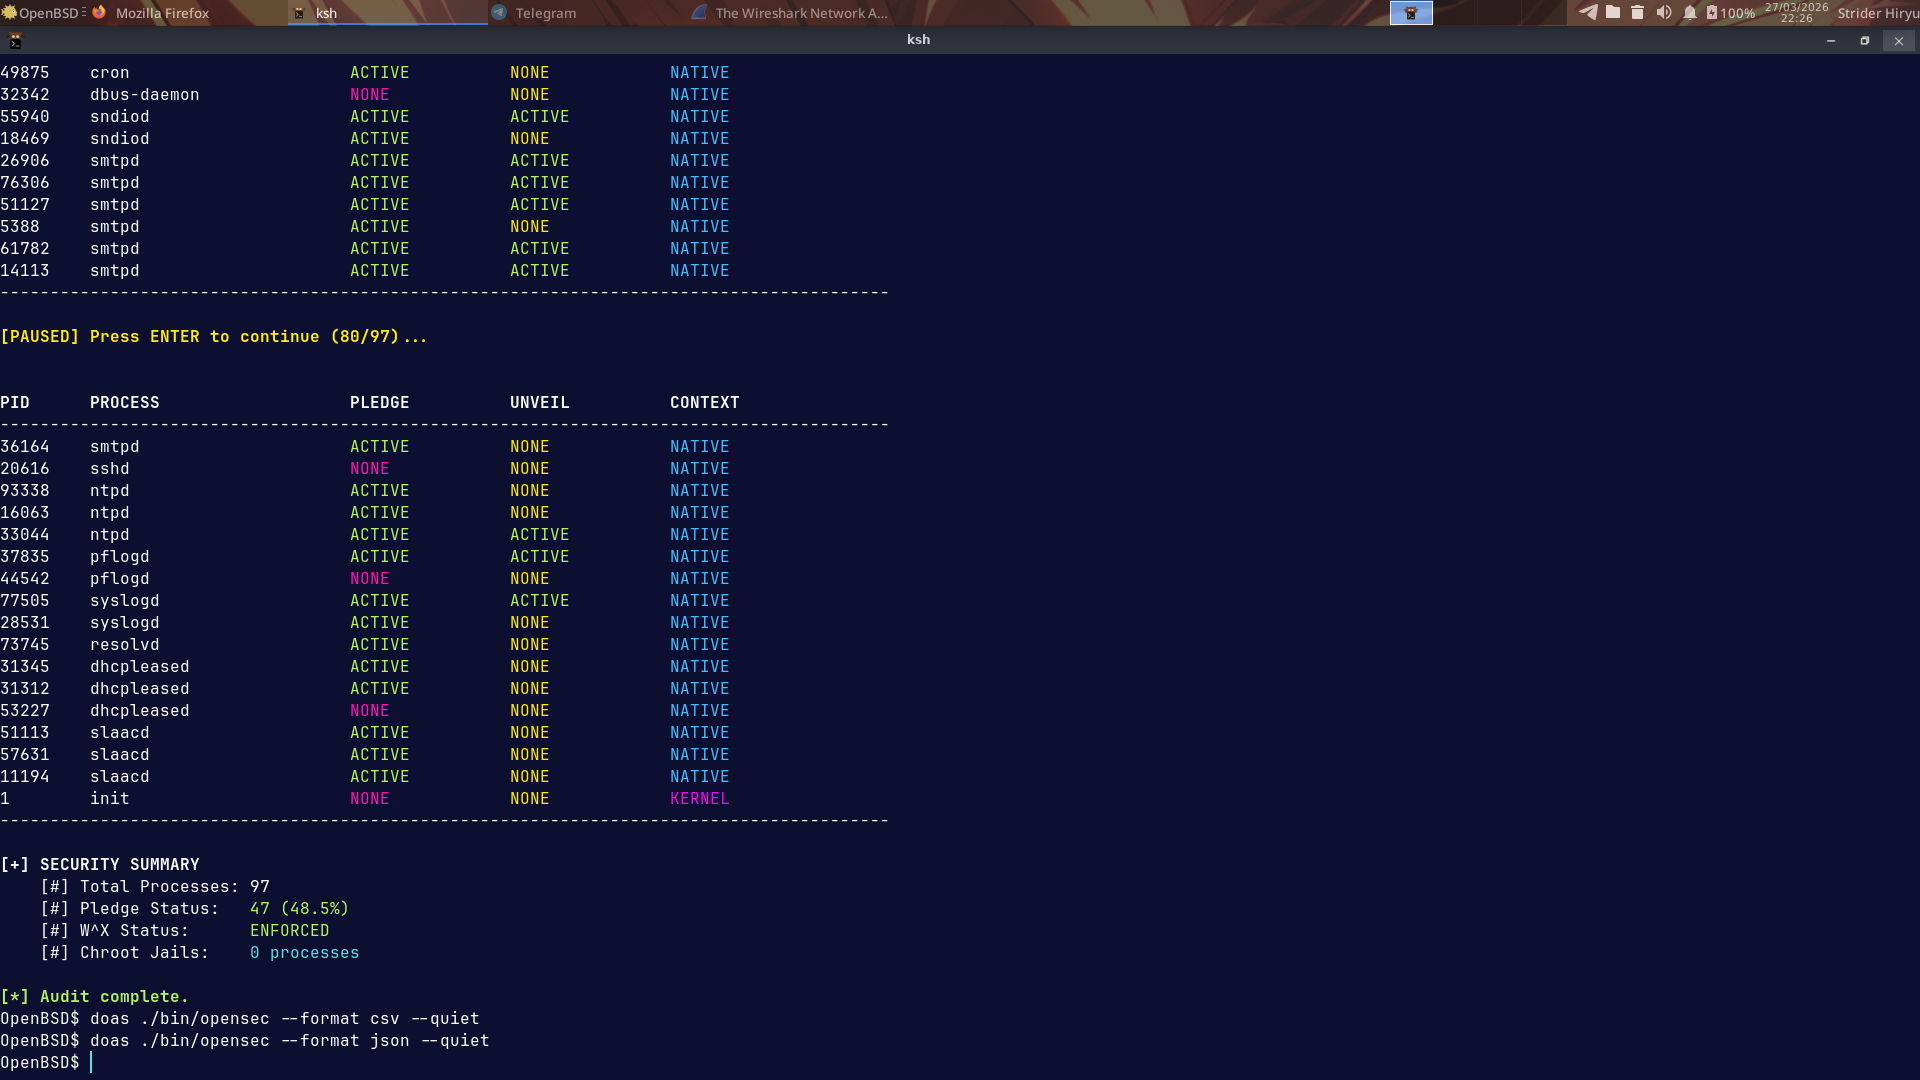
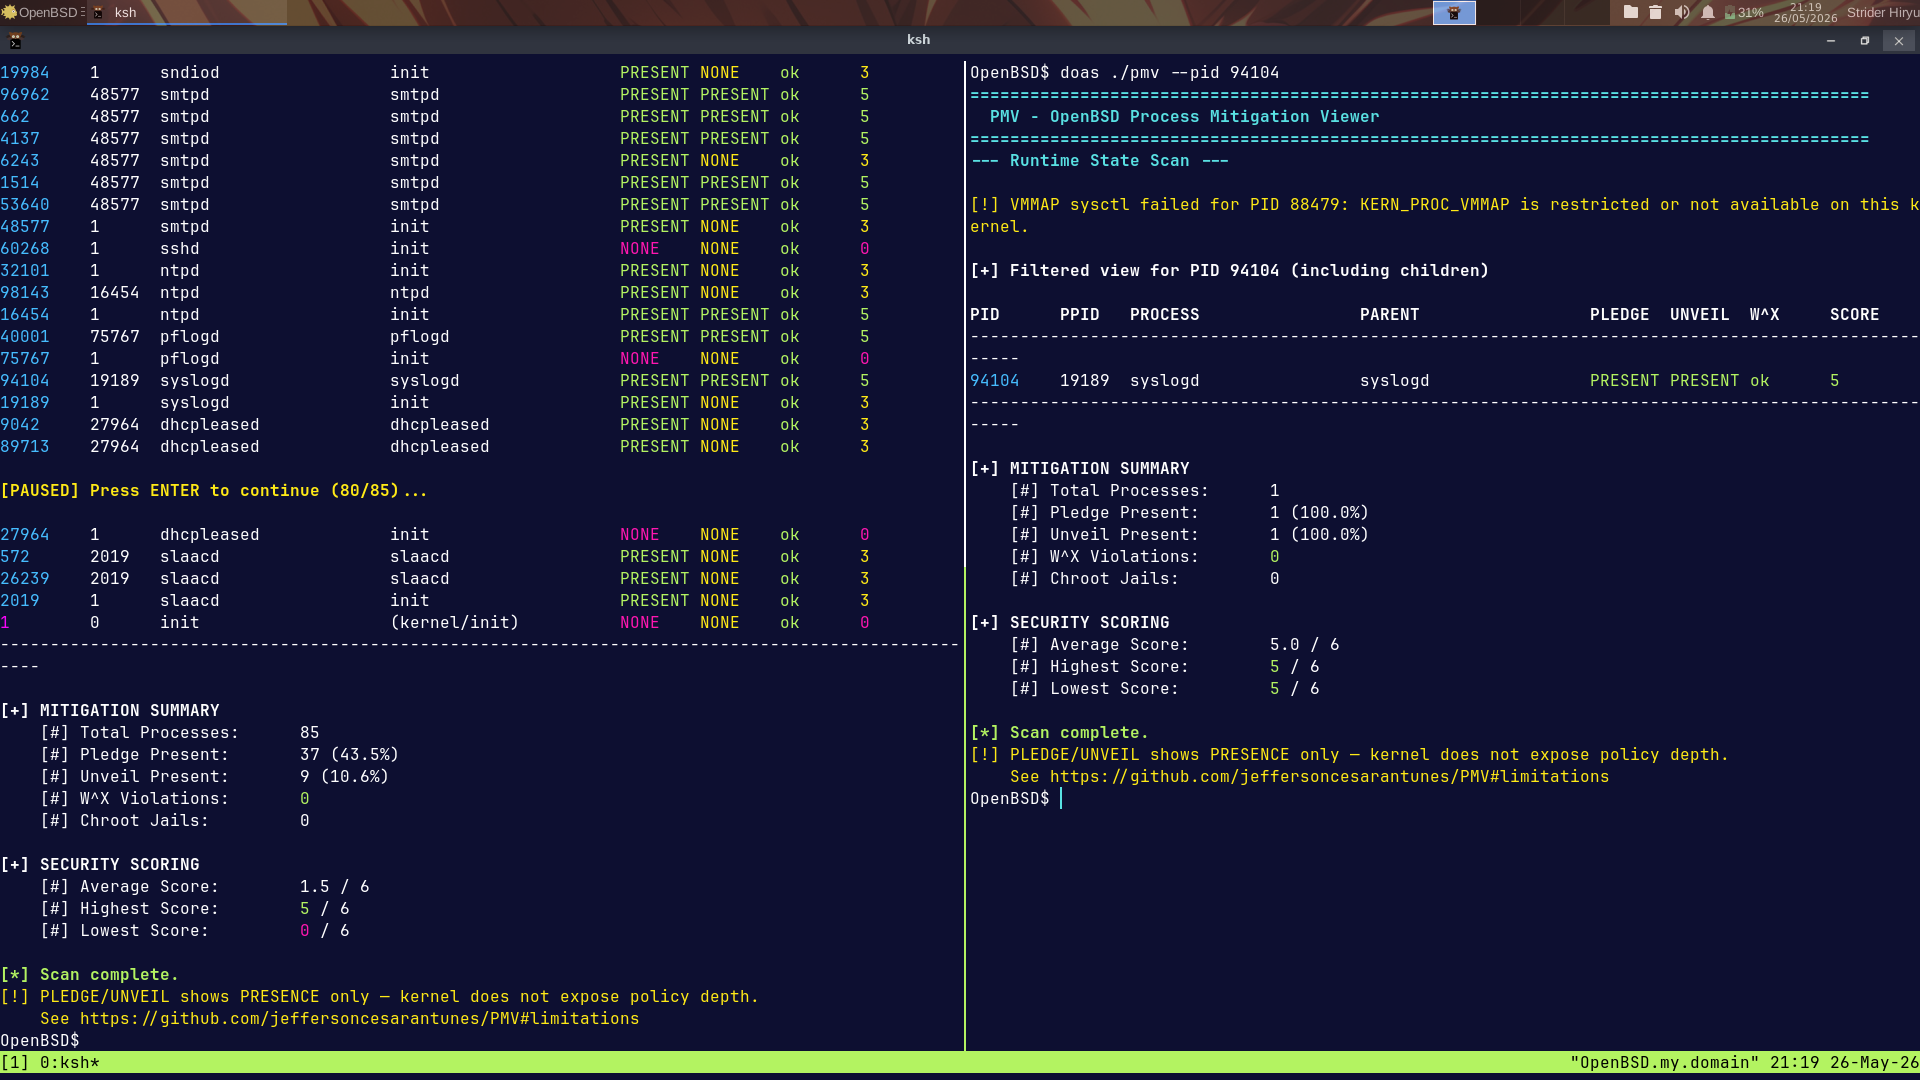
Docs: update README with project in action screenshots and polished descriptions

diff --git a/src/main.c b/src/main.c
@@ -41,8 +41,11 @@ void print_header(void) {
 }
 
 void export_json_manual(ProcessInfo *processes, int count, const char *filename) {
-    FILE *f = fopen(filename, "w");
-    if (!f) return;
+    FILE *f = stdout;
+    if (filename != NULL) {
+        f = fopen(filename, "w");
+        if (!f) return;
+    }
     fputs("[\n", f);
     for (int i = 0; i < count; i++) {
         fprintf(f, "  {\n");
@@ -59,12 +62,15 @@ void export_json_manual(ProcessInfo *processes, int count, const char *filename)
         fprintf(f, "  }%s\n", (i + 1 < count) ? "," : "");
     }
     fputs("]\n", f);
-    fclose(f);
+    if (filename != NULL) fclose(f);
 }
 
 void export_csv(ProcessInfo *processes, int count, const char *filename) {
-    FILE *f = fopen(filename, "w");
-    if (!f) return;
+    FILE *f = stdout;
+    if (filename != NULL) {
+        f = fopen(filename, "w");
+        if (!f) return;
+    }
     fprintf(f, "pid,ppid,name,ppname,pledge,unveil,wxneeded,chrooted,context,score\n");
     for (int i = 0; i < count; i++) {
         fprintf(f, "%d,%d,%s,%s,%d,%d,%d,%d,%s,%d\n",
@@ -75,7 +81,7 @@ void export_csv(ProcessInfo *processes, int count, const char *filename) {
             processes[i].score
         );
     }
-    fclose(f);
+    if (filename != NULL) fclose(f);
 }
 
 static const char *
@@ -177,7 +183,7 @@ print_diff(const ProcessInfo *oldp, int oldc,
                 newp[i].pid,
                 newp[i].has_pledge ? "PRESENT" : "NONE",
                 newp[i].has_unveil ? "PRESENT" : "NONE",
-                newp[i].wxneeded   ? "W^X"    : "ok",
+                newp[i].wxneeded   ? "W^X"     : "ok",
                 newp[i].name);
         }
     }
@@ -193,7 +199,7 @@ print_diff(const ProcessInfo *oldp, int oldc,
                 oldp[i].pid,
                 oldp[i].has_pledge ? "PRESENT" : "NONE",
                 oldp[i].has_unveil ? "PRESENT" : "NONE",
-                oldp[i].wxneeded   ? "W^X"    : "ok",
+                oldp[i].wxneeded   ? "W^X"     : "ok",
                 oldp[i].name);
         }
     }
@@ -208,19 +214,19 @@ usage(void) {
         "Usage: pmv [options]\n"
         "\n"
         "Options:\n"
-        "  -h, --help           Show this help message and exit\n"
-        "  -q, --quiet          Suppress banner and per-process output\n"
-        "  --pid <PID>          Show only PID and its children\n"
-        "  --format <json|csv>  Export structured output to file\n"
-        "  --diff               Compare against previous snapshot\n"
-        "  --scan-wx <PID>      Scan process memory for W+X pages\n"
+        "  -h, --help            Show this help message and exit\n"
+        "  -q, --quiet           Suppress banner and per-process output\n"
+        "  --pid <PID>           Show only PID and its children\n"
+        "  --format <json|csv>   Export structured output to terminal or file\n"
+        "  --diff                Compare against previous snapshot\n"
+        "  --scan-wx <PID>       Scan process memory for W+X pages\n"
         "\n"
         "Examples:\n"
-        "  doas ./pmv                        Full system scan\n"
-        "  doas ./pmv --pid 20033            Filter by PID\n"
-        "  doas ./pmv --format json --quiet  Quiet JSON export\n"
-        "  doas ./pmv --diff                 Snapshot comparison\n"
-        "  doas ./pmv --scan-wx 20033        W^X memory scan\n"
+        "  doas ./pmv                Full system scan\n"
+        "  doas ./pmv --pid 20033     Filter by PID\n"
+        "  doas ./pmv --format json   Print JSON output directly to screen\n"
+        "  doas ./pmv --diff                  Snapshot comparison\n"
+        "  doas ./pmv --scan-wx 20033          W^X memory scan\n"
     );
 }
 
@@ -266,11 +272,12 @@ int main(int argc, char *argv[]) {
         return 0;
     }
 
-    print_header();
-    
-    if (!quiet_mode) {
-        printf(BOLD CYN "--- Runtime State Scan ---" RESET "\n");
-        audit_self();
+    if (out_format == NONE) {
+        print_header();
+        if (!quiet_mode) {
+            printf(BOLD CYN "--- Runtime State Scan ---" RESET "\n");
+            audit_self();
+        }
     }
 
     int count = 0;
@@ -302,16 +309,16 @@ int main(int argc, char *argv[]) {
     if (diff_mode)
         oldp = load_snapshot(&oldp_count);
 
-    if (pledge("stdio rpath wpath cpath ps vminfo", NULL) == -1) err(1, "pledge");
+    if (unveil("/dev", "r") == -1) err(1, "unveil /dev");
+    if (unveil("output.json", "rwc") == -1) err(1, "unveil output.json");
+    if (unveil("output.csv", "rwc") == -1) err(1, "unveil output.csv");
+    if (unveil(SNAPSHOT_FILE, "rwc") == -1) err(1, "unveil snapshot");
+    if (unveil("/usr/lib", "r") == -1) err(1, "unveil /usr/lib");
+    if (unveil(NULL, NULL) == -1) err(1, "unveil seal");
 
-    unveil("/dev", "r");
-    unveil("output.json", "rwc");
-    unveil("output.csv", "rwc");
-    unveil(SNAPSHOT_FILE, "rwc");
-    unveil("/usr/lib", "r");
-    unveil(NULL, NULL);
+    if (pledge("stdio rpath wpath cpath ps vminfo unveil", NULL) == -1) err(1, "pledge");
 
-    if (!quiet_mode) {
+    if (out_format == NONE && !quiet_mode) {
         if (target_pid > 0)
             printf("\n" BOLD "[+] Filtered view for PID %d (including children)\n" RESET, target_pid);
         printf("\n" BOLD "%-8s %-6s %-22s %-22s %-7s %-7s %-7s %-6s\n" RESET,
@@ -332,7 +339,7 @@ int main(int argc, char *argv[]) {
         if (p->score > score_max) score_max = p->score;
         if (p->score < score_min) score_min = p->score;
 
-        if (!quiet_mode) {
+        if (out_format == NONE && !quiet_mode) {
             char *ctx_color = (p->pid < 100) ? MAG : BLU;
             printf("%s%-8d" RESET " %-6d %-22.22s %-22.22s ",
                    ctx_color, p->pid, p->ppid, p->name, p->ppname);
@@ -348,12 +355,12 @@ int main(int argc, char *argv[]) {
         }
     }
 
-    if (diff_mode && oldp) {
+    if (out_format == NONE && diff_mode && oldp) {
         print_diff(oldp, oldp_count, display_list, display_count);
         free(oldp);
     }
 
-    if (!quiet_mode) {
+    if (out_format == NONE && !quiet_mode) {
         print_separator();
         printf("\n" BOLD "[+] MITIGATION SUMMARY\n" RESET);
         printf("    [#] Total Processes:      %d\n", display_count);
@@ -374,10 +381,16 @@ int main(int argc, char *argv[]) {
         printf( YEL "    See https://github.com/jeffersoncesarantunes/PMV#limitations\n" RESET);
     }
 
-    if (out_format == JSON) export_json_manual(display_list, display_count, "output.json");
-    if (out_format == CSV) export_csv(display_list, display_count, "output.csv");
+    if (out_format == JSON) {
+        if (quiet_mode) export_json_manual(display_list, display_count, "output.json");
+        else export_json_manual(display_list, display_count, NULL);
+    }
+    if (out_format == CSV) {
+        if (quiet_mode) export_csv(display_list, display_count, "output.csv");
+        else export_csv(display_list, display_count, NULL);
+    }
 
-    if (save_snapshot(display_list, display_count) == -1 && !quiet_mode)
+    if (save_snapshot(display_list, display_count) == -1 && !quiet_mode && out_format == NONE)
         warn("save_snapshot");
 
     if (target_pid > 0 && display_list) free(display_list);

diff --git a/src/engine.c b/src/engine.c
@@ -9,6 +9,7 @@
 #include <kvm.h>
 #include <fcntl.h>
 #include <errno.h>
+#include <err.h>
 #include "pmv.h"
 
 #ifndef PS_WXNEEDED
@@ -98,14 +99,9 @@ void audit_process_memory(int pid) {
 
     if (sysctl(mib, 4, NULL, &size, NULL, 0) == -1) {
         if (errno == EINVAL) {
-            printf("\n" "\x1b[33m" "[!] VMMAP sysctl failed for PID %d: "
-                   "KERN_PROC_VMMAP is restricted or not available on this kernel." "\x1b[0m" "\n", pid);
-            printf("    Try setting kern.allowkmem=1 in /etc/sysctl.conf "
-                   "or use procmap(1) as an alternative.\n");
+            printf("\n\x1b[33m[!] VMMAP sysctl failed for PID %d: KERN_PROC_VMMAP is restricted or not available on this kernel.\x1b[0m\n", pid);
         } else if (errno == EACCES || errno == EPERM) {
-            fprintf(stderr, "[-] Permission denied for PID %d: %s\n"
-                    "    (KERN_PROC_VMMAP requires elevated privileges)\n",
-                    pid, strerror(errno));
+            fprintf(stderr, "[-] Permission denied for PID %d: %s\n    (KERN_PROC_VMMAP requires elevated privileges)\n", pid, strerror(errno));
         } else {
             fprintf(stderr, "[-] Kernel error for PID %d: %s\n", pid, strerror(errno));
         }
@@ -127,12 +123,9 @@ void audit_process_memory(int pid) {
     printf("\n[+] W^X Memory Scan for PID %d\n", pid);
     printf("    %-18s %-18s %-10s\n", "START ADDR", "END ADDR", "PROT");
 
-    char *ptr = (char *)vme;
-    char *end = (char *)vme + size;
-    while (ptr < end) {
-        struct kinfo_vmentry *entry = (struct kinfo_vmentry *)ptr;
-        if (entry->kve_structsize == 0) break;
-        ptr += entry->kve_structsize;
+    int nentries = size / sizeof(struct kinfo_vmentry);
+    for (int i = 0; i < nentries; i++) {
+        struct kinfo_vmentry *entry = &vme[i];
 
         if (entry->kve_start == 0 && entry->kve_end == 0) continue;
         region_count++;
@@ -158,8 +151,7 @@ void audit_process_memory(int pid) {
         }
     }
 
-    printf("\n    [+] Scan complete: %d region(s) mapped, ",
-           region_count);
+    printf("\n    [+] Scan complete: %d region(s) mapped, ", region_count);
     if (wx_count > 0)
         printf("\033[31m%d W+X violation(s) found\033[0m.\n", wx_count);
     else

diff --git a/README.md b/README.md
@@ -164,14 +164,14 @@ doas ./pmv --scan-wx 20033
 
 ## ● Project in Action
 
-![Initial Scan](./Imagens/pmv1.png)
-*1 - Build and initial kernel scan.*
+![System Scan](./Imagens/pmv1.png)
+*1 - Interactive runtime state scan displaying the live process table and real-time security scoring.*
 
-![Mitigation Analysis](./Imagens/pmv2.png)
-*2 - Structured output generation using --quiet and --format.*
+![Granular PID Filter](./Imagens/pmv2.png)
+*2 - Granular process filtering using the `--pid` flag, isolating target subtrees and dynamically recalculating scope-specific metrics.*
 
-![Integrity Check](./Imagens/pmv3.png)
-*3 - Validation of process-level mitigation data and integrity checks.*
+![Automation and Diffs](./Imagens/pmv3.png)
+*3 - Forensic automation workflow: quiet mode execution (`--quiet`) for data dumping and differential audit (`--diff`) against historical snapshots.*
 
 ---
 